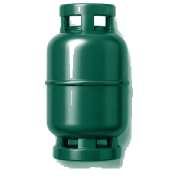
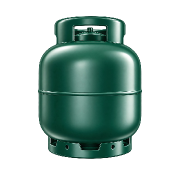
feat(pictograma): o botijao refeito pelo Agnaldo entra no acervo
Ele refez a arte. O desenho anterior tinha proporcao 0,52 — era o que o
--alongamento de ea388ce estava compensando com +27% de escala. A arte nova
tem proporcao 0,73 e resolve o problema na ORIGEM: botijao atarracado, com o
aro de protecao em cima, reconhecivel de imediato. A compensacao continua
valendo e agora quase nao morde (0,73 contra 0,86 de mediana).

FORMATO NOVO, E ISSO TEM CONSEQUENCIA. A arte vem transparente, sem tile creme,
1254x1254. Exige `--limpo`: o caminho padrao desfaz a mistura com o creme e,
numa arte que nao tem creme, trata o que encontra como se fosse tile — ja
produziu saida invertida (tile da cor alvo com o desenho vazado).

SEM REANCORAGEM DE COR, por teste e nao por esquecimento. Com `--alvo
#064E3B` a media bate exatamente no verde unico, mas o brilho especular da
arte vira pincelada neon — o mesmo efeito que o Agnaldo relatou na moto em
23/10. O custo e conhecido: as pecas do caminho antigo tem media exata
(6,78,59) e esta tem (53,104,90), mais clara e menos saturada. Foi escolhido
pelo olho, na fila de Emergencias, contra o extintor e a mochila.

reenquadrar_acervo.js generaliza a excecao da moto numa TABELA, porque isso
vai crescer: o Agnaldo ja avisou que vai refazer o extintor (o gatilho aponta
para o mesmo lado do bocal, o que e impossivel de operar). Agora ha
`LIMPAS` (formato limpo + renomeacao) e `FORA` com o motivo de cada exclusao:
fonte de peca limpa, arte superada, ou arquivo de trabalho sem glifo.
[…]

diff --git a/scripts/reenquadrar_acervo.js b/scripts/reenquadrar_acervo.js
@@ -34,8 +34,40 @@ const EXTRA = process.argv.includes('--alongamento') ? ' --alongamento' : '';
 
 const A = path.join(__dirname, '..', 'assets', 'illustrations');
 const PASTAS = ['education-pictograms', 'home-pictograms', 'menu-pictograms', 'travel-pictograms'];
-const FORA = ['Modal motocicleta.png', 'Modal motocicleta com baú.png', 'pictogram-transporte-carro .png'];
-const MOTO = { arquivo: 'Modal motocicleta com baú.png', nome: 'pictogram-transporte-moto' };
+
+// ── PECAS EM FORMATO LIMPO ──────────────────────────────────────────────────
+// A arte nova do Agnaldo vem TRANSPARENTE, sem o tile creme e sem a moldura
+// pintados. Ela exige `--limpo`: o caminho padrao desfaz a mistura com o creme
+// e, numa arte que nao tem creme, trata o que encontra como se fosse tile — ja
+// produziu saida invertida (tile da cor alvo com o desenho vazado).
+//
+// SEM `--alvo`, de proposito. A reancoragem no verde unico existe para unificar
+// o acervo ANTIGO, de tons desencontrados. Numa arte que ja nasce no verde da
+// casa ela amplifica o brilho especular: a moto saiu "pincelada de neon"
+// (Agnaldo, 23/10/2026) e o botijao novo repetiu o efeito em 25/10/2026.
+// O custo e conhecido e aceito: a peca fica no tom do autor, nao na media
+// exata (6,78,59) que as peças do caminho padrao tem.
+//
+// Cada entrada tambem RENOMEIA: o arquivo tem nome de autor e a saida precisa
+// do nome que o app importa.
+const LIMPAS = [
+    { pasta: 'travel-pictograms',    arquivo: 'Modal motocicleta com baú.png', nome: 'pictogram-transporte-moto' },
+    { pasta: 'education-pictograms', arquivo: 'Botijão de gás standard.png',   nome: 'pictogram-vazamento-gas' },
+];
+
+// ── FORA DA PASSADA PADRAO ──────────────────────────────────────────────────
+// Tres motivos para um arquivo sair de circulacao durante a passada:
+//   1. e fonte de uma peca LIMPA (seria processado no modo errado);
+//   2. foi SUPERADO por uma arte nova (regeneraria o desenho antigo por cima);
+//   3. e arquivo de trabalho sem glifo em producao.
+// Nada e alterado: o script move, roda e devolve — inclusive se falhar.
+const FORA = [
+    { pasta: 'travel-pictograms',    arquivo: 'Modal motocicleta com baú.png' },  // (1)
+    { pasta: 'education-pictograms', arquivo: 'Botijão de gás standard.png' },    // (1)
+    { pasta: 'education-pictograms', arquivo: 'pictogram-vazamento-gas.png' },    // (2) superado em 25/10/2026
+    { pasta: 'travel-pictograms',    arquivo: 'Modal motocicleta.png' },          // (3)
+    { pasta: 'travel-pictograms',    arquivo: 'pictogram-transporte-carro .png' },// (3) nome com espaco
+];
 
 const tmp = (n) => path.join(A, n);
 const rmrf = (p) => fs.rmSync(p, { recursive: true, force: true });
@@ -43,9 +75,13 @@ const rmrf = (p) => fs.rmSync(p, { recursive: true, force: true });
 // 1. tira de circulacao o que nao participa, sem alterar nenhum arquivo
 const guardado = path.join(A, '_fora');
 rmrf(guardado); fs.mkdirSync(guardado, { recursive: true });
-for (const f of FORA) {
-    const o = path.join(A, 'travel-pictograms', f);
-    if (fs.existsSync(o)) fs.renameSync(o, path.join(guardado, f));
+const devolver = [];
+for (const { pasta, arquivo } of FORA) {
+    const o = path.join(A, pasta, arquivo);
+    if (!fs.existsSync(o)) continue;
+    const destino = path.join(guardado, pasta + '__' + arquivo);
+    fs.renameSync(o, destino);
+    devolver.push([destino, o]);
 }
 
 try {
@@ -55,17 +91,19 @@ try {
             { cwd: path.join(__dirname, '..'), stdio: 'ignore' });
     }
 
-    // 3. a moto, modo limpo, com renomeacao
-    const umA = tmp('_uma'); rmrf(umA); fs.mkdirSync(umA, { recursive: true });
-    fs.copyFileSync(path.join(guardado, MOTO.arquivo), path.join(umA, MOTO.nome + '.png'));
-    execSync(`node scripts/normalizar_pictogramas.js --pasta _uma --caixa ${CAIXA} --saida ${SAIDA} --limpo${EXTRA}`,
-        { cwd: path.join(__dirname, '..'), stdio: 'ignore' });
-    rmrf(umA);
+    // 3. as pecas limpas, uma a uma, com renomeacao
+    for (const { pasta, arquivo, nome } of LIMPAS) {
+        const origem = path.join(guardado, pasta + '__' + arquivo);
+        if (!fs.existsSync(origem)) continue;
+        const umA = tmp('_uma'); rmrf(umA); fs.mkdirSync(umA, { recursive: true });
+        fs.copyFileSync(origem, path.join(umA, nome + '.png'));
+        execSync(`node scripts/normalizar_pictogramas.js --pasta _uma --caixa ${CAIXA} --saida ${SAIDA} --limpo${EXTRA}`,
+            { cwd: path.join(__dirname, '..'), stdio: 'ignore' });
+        rmrf(umA);
+    }
 } finally {
     // 4. devolve tudo ao lugar, aconteca o que acontecer
-    for (const f of fs.readdirSync(guardado)) {
-        fs.renameSync(path.join(guardado, f), path.join(A, 'travel-pictograms', f));
-    }
+    for (const [de, para] of devolver) fs.renameSync(de, para);
     rmrf(guardado);
 }
 
